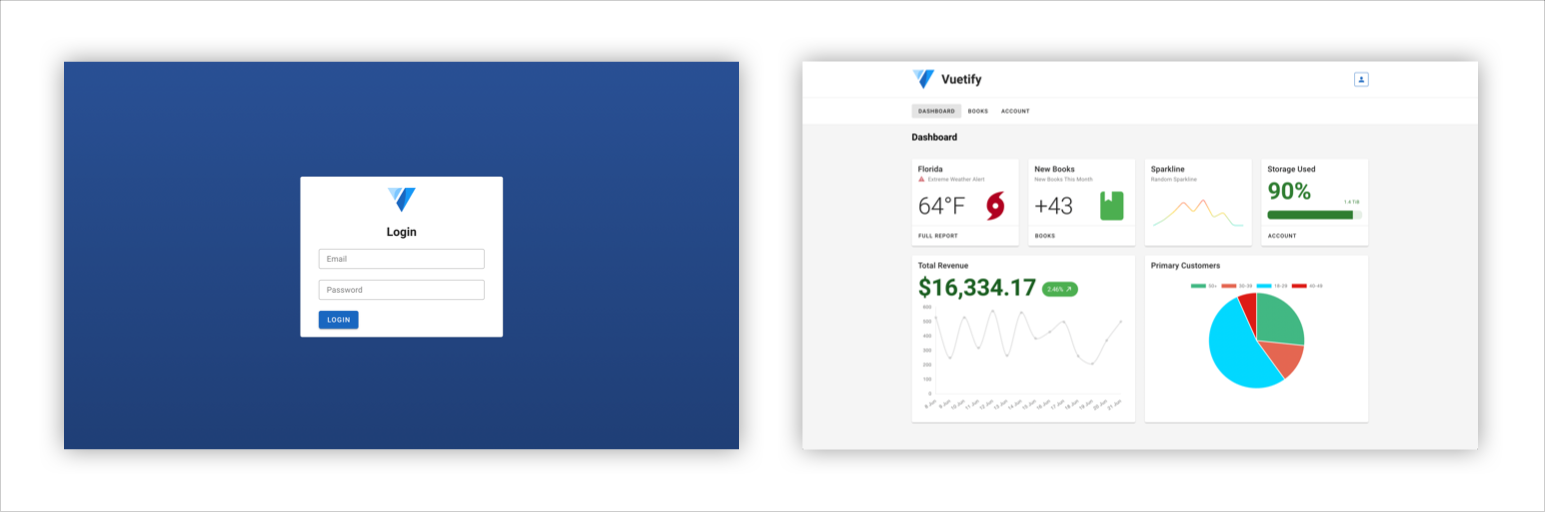
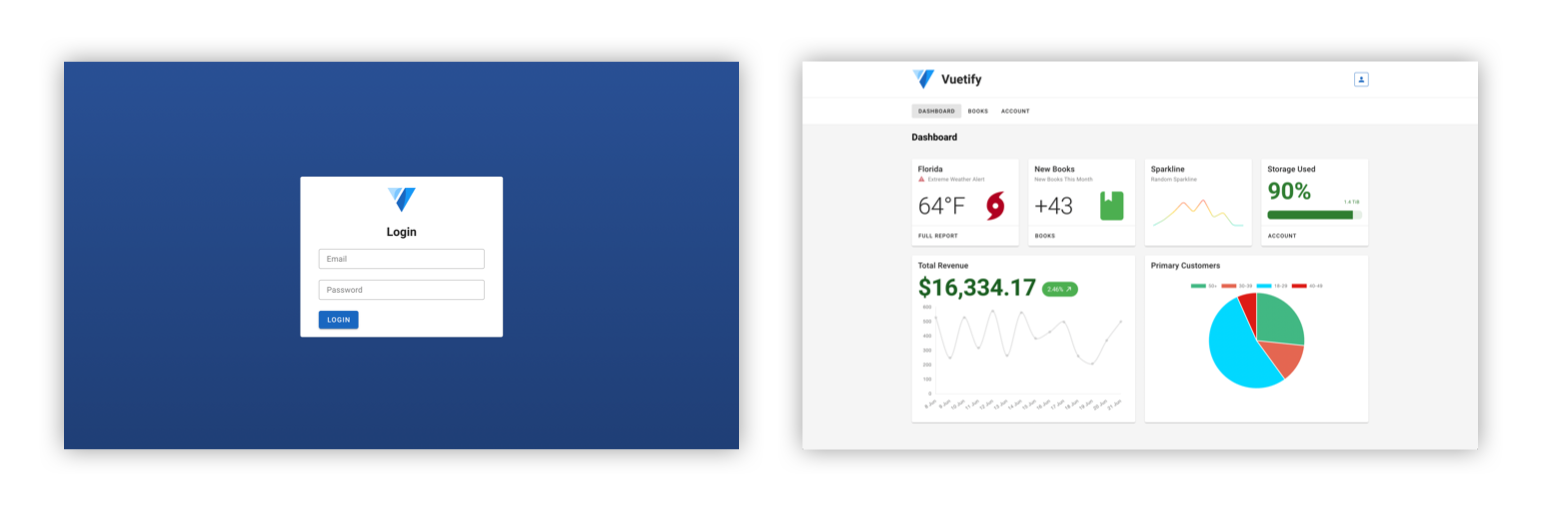
Vuetify3

Changed region(s): [[0.9942, 0.0, 1.0, 1.0]]

diff --git a/README.md b/README.md
@@ -1,6 +1,6 @@
 # Vuetify 3 SaaS Boilerplate
 <p align="center">
-    <img src="https://raw.githubusercontent.com/anthonybudd/Vuetify3-SaaS-Boilerplate/main/public/img/screenshots.png?v=3">
+    <img src="https://raw.githubusercontent.com/anthonybudd/Vuetify3-SaaS-Boilerplate/main/public/img/screenshots.png?v=1">
 </p>
 
 A minimal SaaS boilerplate built using Vuetify 3. This project was built to work out of the box with [AnthonyBudd/Express-TS-Api-Boilerplate](https://github.com/anthonybudd/express-ts-api-boilerplate) as the backend.
